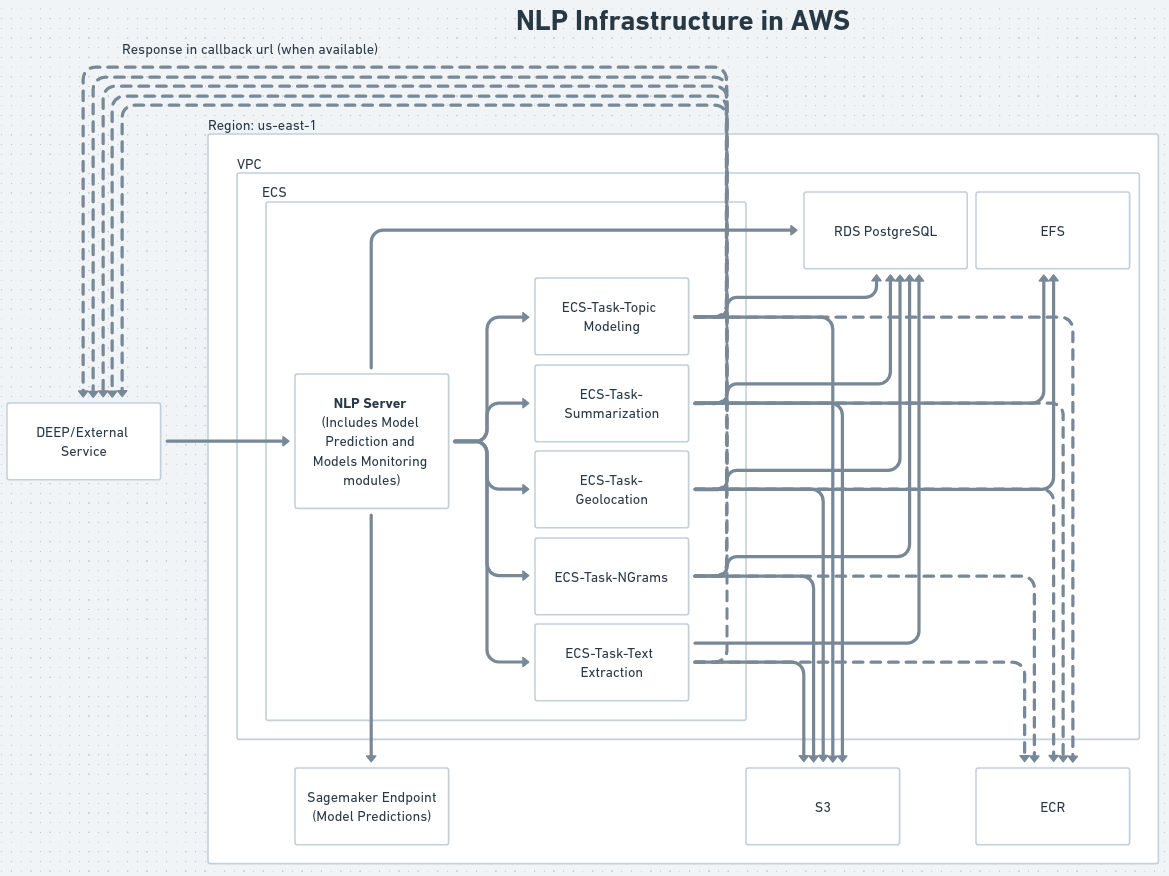
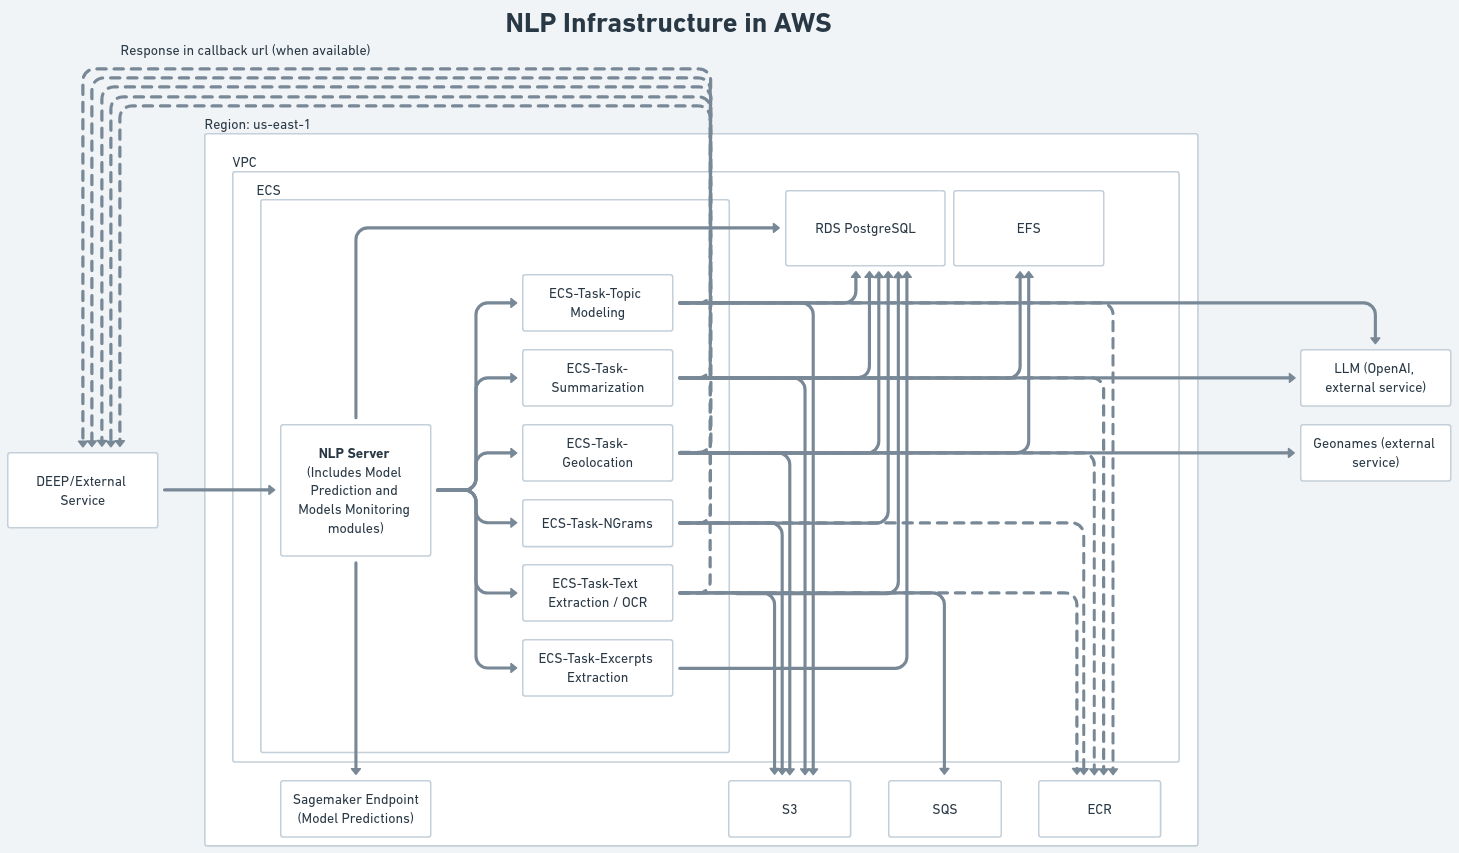
updated the documentation and infra diagram;

diff --git a/README.md b/README.md
@@ -6,7 +6,7 @@ The NLP Infrastructure deployed in AWS Cloud environment hosts modules such as N
 The infrastructure components and resources are built using Terraform which is an Infrastructure as Code (IaC) tool for rapid deployment.
 
 ## Architecture
-To begin with the architecture design, Elastic Container Service(ECS) is chosen which is a container orchestration service that runs and manages Docker containers. The ECS cluster comprises different services such as NLP Server, Topic Modeling, Summarization, NGrams, Geolocations, Text Extraction etc. These services further break down to a lower level to run the tasks. These tasks run the containers whose images are stored in the Elastic Container Registry(ECR). These containers are standalone units which execute the code and the results are returned.
+To begin with the architecture design, Elastic Container Service(ECS) is chosen which is a container orchestration service that runs and manages Docker containers. The ECS cluster comprises different services such as NLP Server, Topic Modeling, Summarization, NGrams, Geolocations, Text Extraction, Entry Extraction etc. These services further break down to a lower level to run the tasks. These tasks run the containers whose images are stored in the Elastic Container Registry(ECR). These containers are standalone units which execute the code and the results are returned.
 
 There are many other AWS services being used which are the integral part of the NLP architecture such as VPC for private network, S3 for cloud storage, Route53 for domain management, ALB for sharing the load, Sagemaker for running the classification model etc.
 
@@ -48,9 +48,20 @@ Please find below the NLP Infrastructure and Sequence Diagrams of the deployed s
 In order to deploy in AWS, we simply run the following commands for staging and production env. deployments. In our case, the production env. deployment is automated using the github actions workflow.
 
 ## Staging
-$ terraform apply -var-file=staging.tfvars
+In order to run it in staging, you need to create a aws profile and set it here in these lines:
+1. https://github.com/the-deep-nlp/core-server-infra/blob/2765e669ee6fb84fdded5aa5404a9f9e0d198ea2/main.tf#L15
+2. https://github.com/the-deep-nlp/core-server-infra/blob/2765e669ee6fb84fdded5aa5404a9f9e0d198ea2/main.tf#L21
+
+The aws profile should have all the needed permissions to access various resources in AWS.
+
+For the staging, the images of all the modules should be loaded to the ECR manually and the respected names should be mentioned in the staging.tfvars file.
+Then, if you run the below command, it will deploy all the required components in the AWS Infrastructure.
+
+```$ terraform apply -var-file=staging.tfvars```
 
 ## Production
-$ terraform apply -var-file=prod.tfvars
+In Production environment, all the required access are setup in github actions as Secrets. Whenever new updates are pushed to the **release** branch, an approval is required from the administrator and once approved, the CI/CD in **Github Actions** run the sequence to create the docker images and uploads those images to the respective image repositories in ECR. Then, the terraform apply command deploys all the components to the AWS Infrastructure automatically, so, no need to run anything manually. Just for your reference, the main command that gets executed when deploying components is shown below.
+
+```$ terraform apply -var-file=prod.tfvars```
 
 
